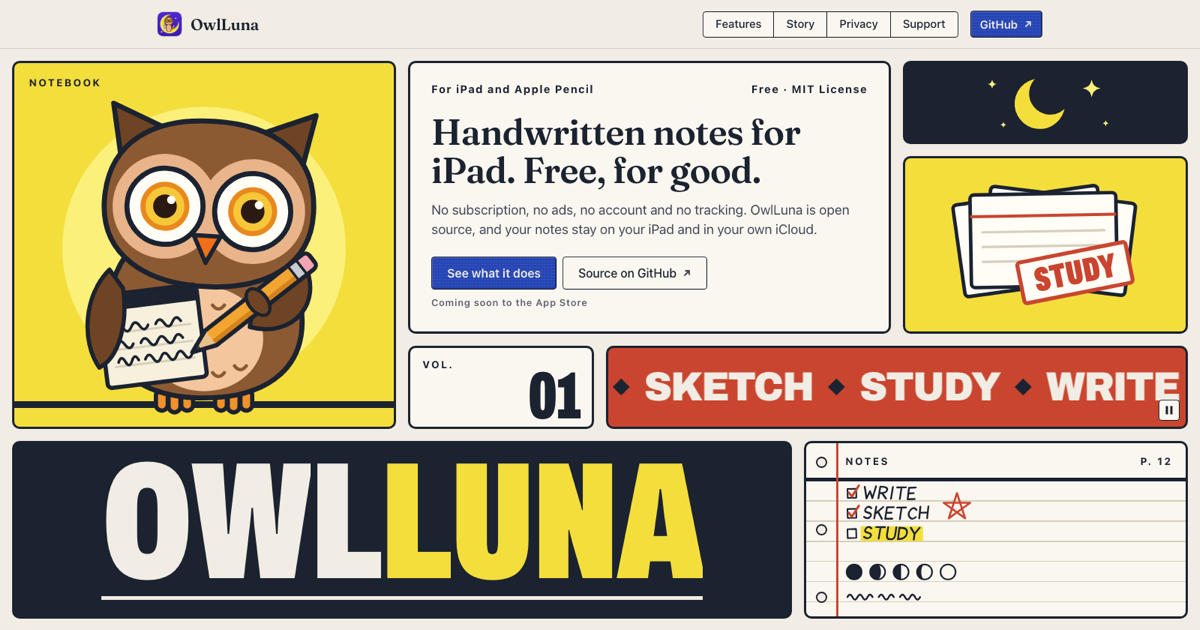
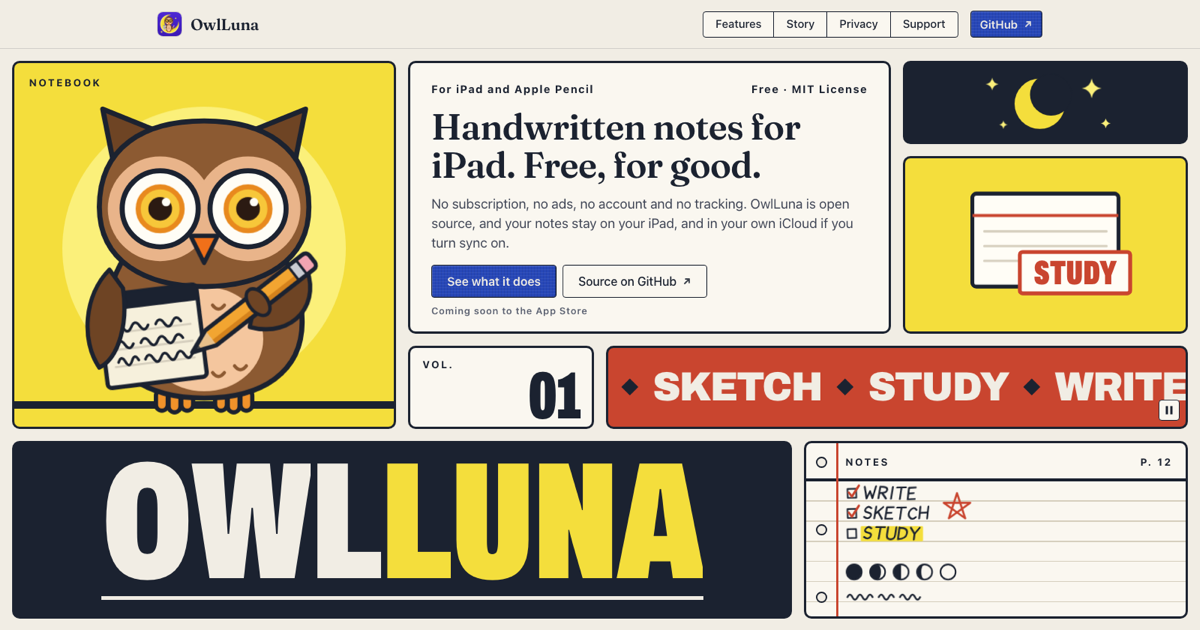
Update privacy policy text for clarity and enhance pitch description

diff --git a/website/app/privacy/page.tsx b/website/app/privacy/page.tsx
@@ -272,9 +272,10 @@ export default function PrivacyPolicy() {
             <h3 className={`display ${styles.sub}`}>When you delete a notebook</h3>
             <p>
               A notebook you delete for good is removed from iCloud the next time that device syncs, and from your other
-              devices after that, unless one of them holds newer writing in it, in which case the notebook is kept and
-              comes back. An empty marker named with the notebook&rsquo;s random ID stays in the container so the other
-              devices know it was deleted. It holds nothing else.
+              devices after that. If another device holds writing in that notebook that it has not synced yet, the
+              notebook is kept and comes back; writing that had already synced is deleted with it. An empty marker named
+              with the notebook&rsquo;s random ID stays in the container so the other devices know it was deleted. It
+              holds nothing else.
             </p>
           </Part>
 
@@ -310,7 +311,8 @@ export default function PrivacyPolicy() {
                 up with it.
               </LedgerRow>
               <LedgerRow label="Face ID, Touch ID or passcode">
-                To open notebooks you have locked. iPadOS does the checking and tells the app only yes or no.
+                To open notebooks you have locked, to lock or unlock one, and before a backup when any notebook is
+                locked. iPadOS does the checking and tells the app only yes or no.
               </LedgerRow>
             </Ledger>
             <p>
@@ -383,7 +385,8 @@ export default function PrivacyPolicy() {
               </li>
               <li>
                 <strong>Open a link.</strong> A web link you placed on a page opens in your browser, and Settings ›
-                About links to GitHub. Those sites have privacy policies of their own.
+                About links to this website and to GitHub. What a visit here records is under{' '}
+                <a href="#website">This website</a>; other sites have privacy policies of their own.
               </li>
             </ul>
             <p>Where a file goes after the share sheet is up to the app or service you chose there.</p>

diff --git a/website/components/hero/BentoHero.tsx b/website/components/hero/BentoHero.tsx
@@ -162,7 +162,7 @@ function Pitch() {
         <h1 className={`display ${styles.pitchTitle}`}>Handwritten notes for iPad. Free, for good.</h1>
         <p className={styles.pitchLede}>
           No subscription, no ads, no account and no tracking. OwlLuna is open source, and your notes stay on your
-          iPad and in your own iCloud.
+          iPad, and in your own iCloud if you turn sync on.
         </p>
       </div>
       <div className={styles.pitchActions}>
